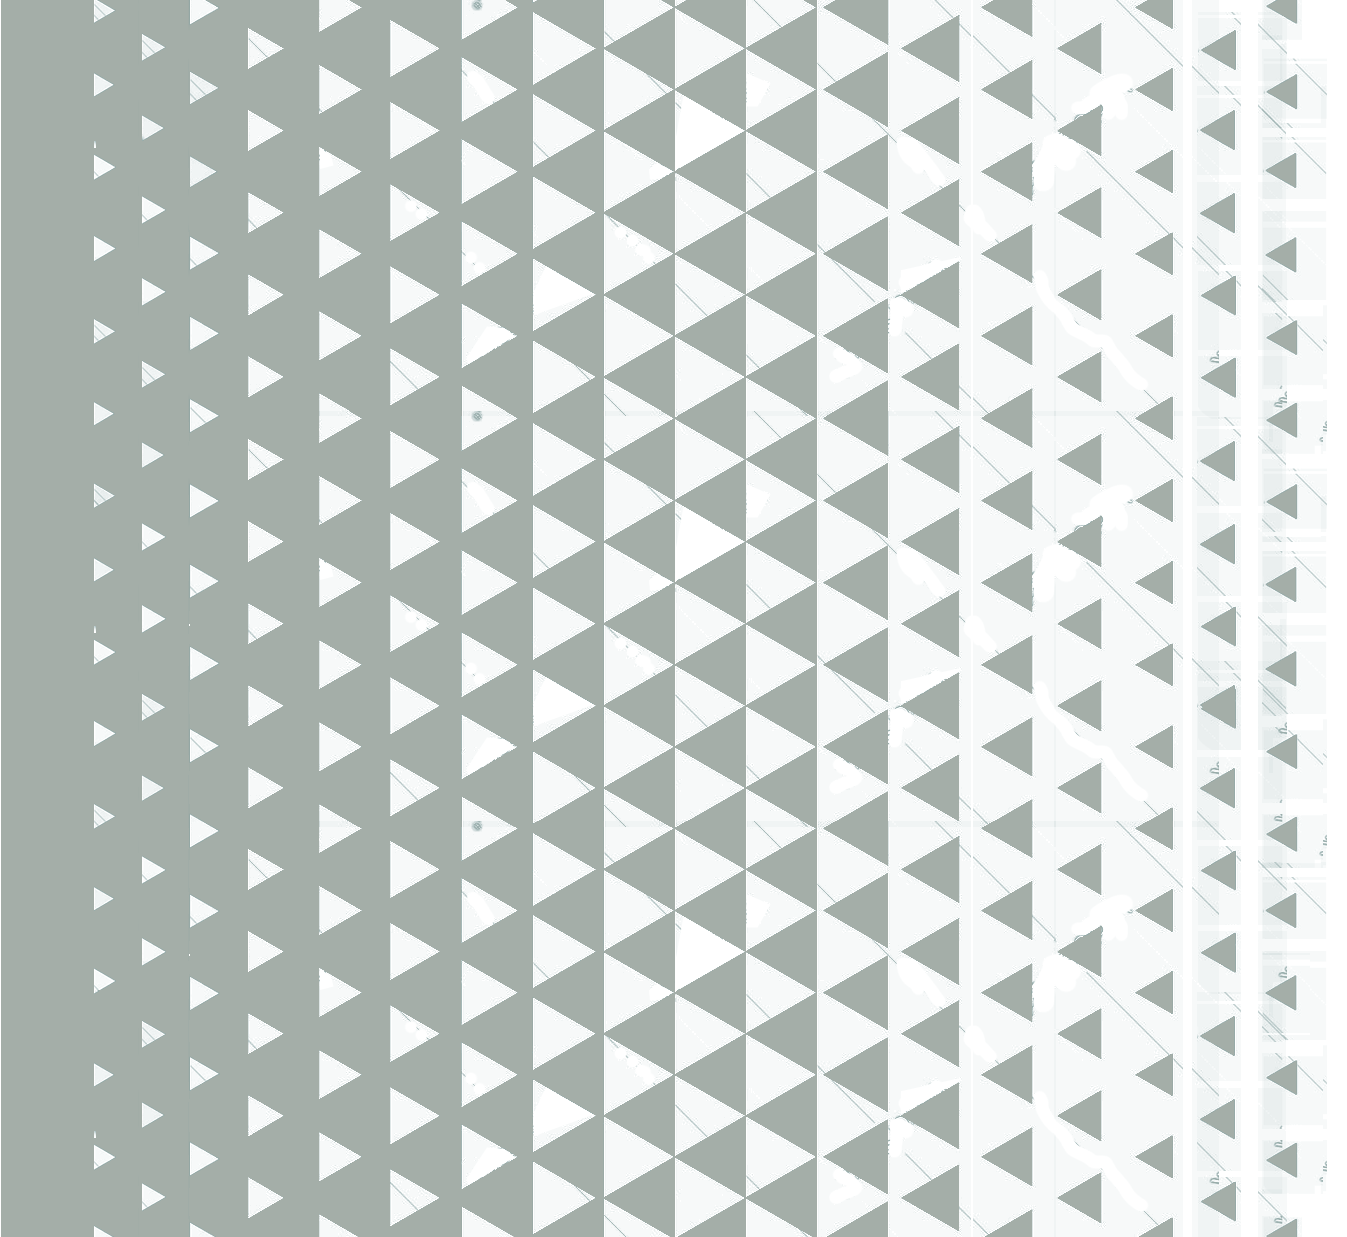
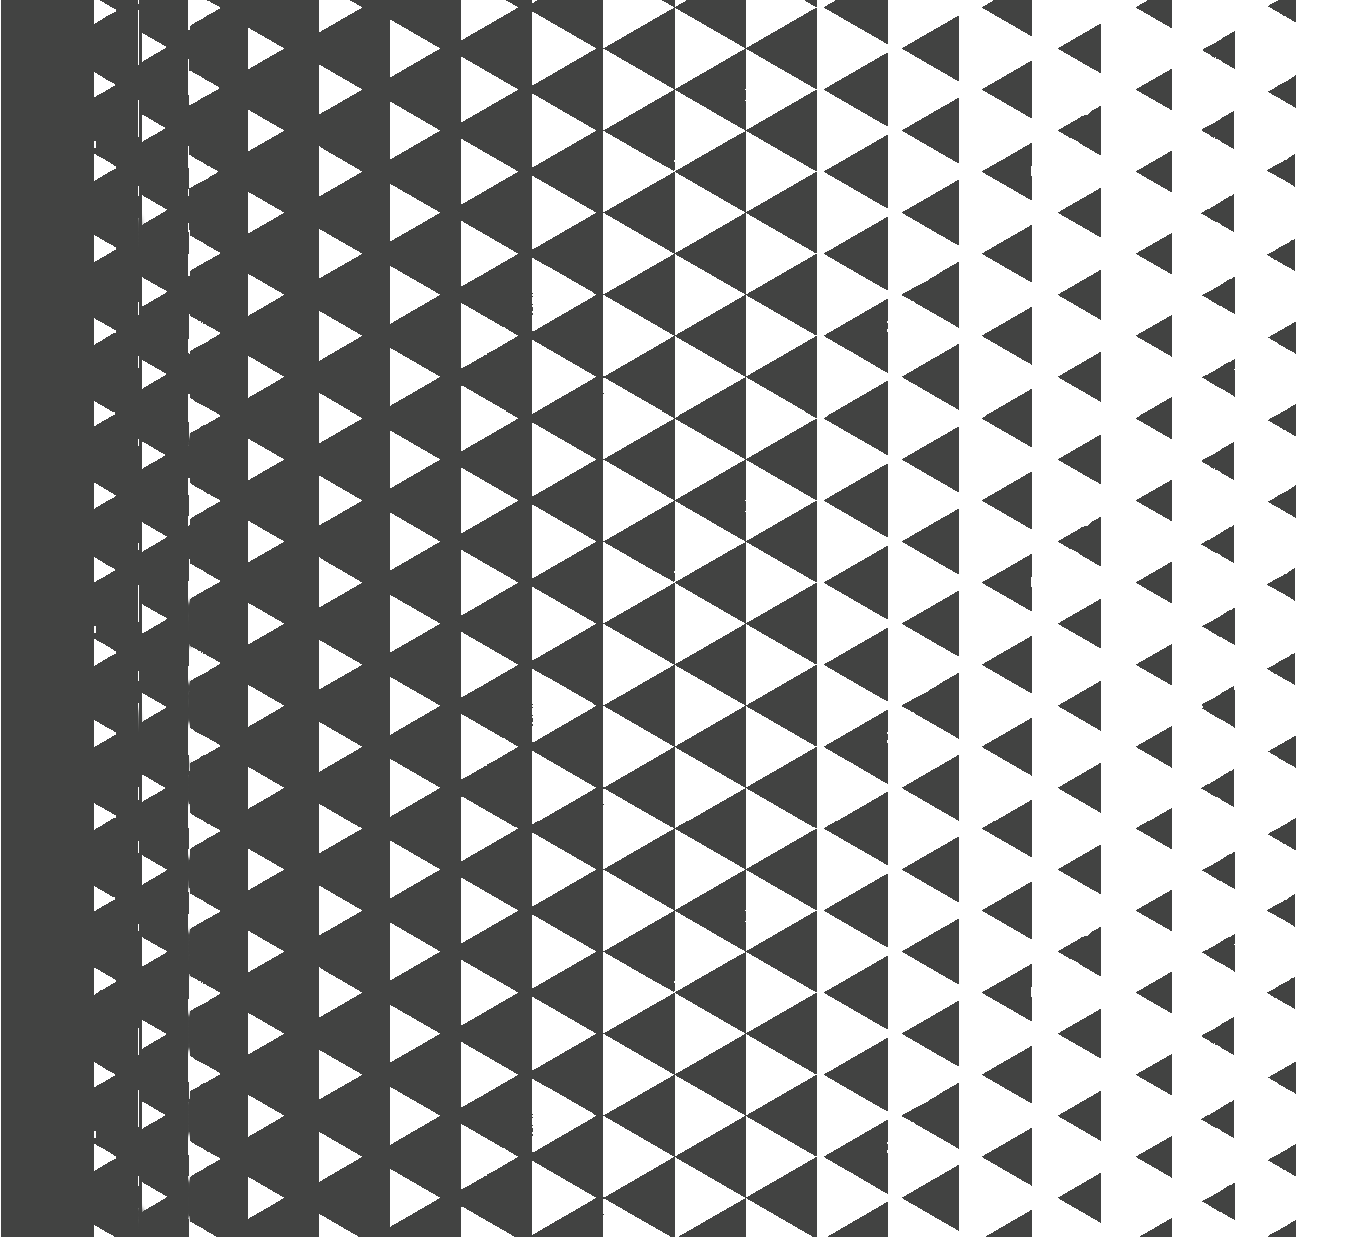
making things prettty

diff --git a/src/App.css b/src/App.css
@@ -6,7 +6,7 @@
 }
 
 body{
-  background-color:  rgb(164, 174, 168);
+  background-color:  rgb(66, 67, 66);
 }
 
 
@@ -24,12 +24,12 @@ img {
 
 
 .jumbotron {
-  background-image: url('./Assets/background.gif');
+  background-image: url('./Assets/background2.gif');
   height: 500px;
   background-repeat: no-repeat;
   background-size: contain;
   background-position: center;
-  background-color: rgb(52, 52, 56);
+  background-color: rgb(26, 26, 28);
   color:white;
 }
 
@@ -43,6 +43,10 @@ img {
   font-size: 48px;   
   font-family: 'Oswald', monospace;
   font-weight: bold;
+}
+
+.jumbotron h3, h4{
+  font-weight: lighter;
 }
 
 .jumbotron p {

diff --git a/src/App.js b/src/App.js
@@ -37,7 +37,7 @@ class App extends Component {
       <div className="App">
         <div className="jumbotron">
           <div className="container">
-            <h1>Hi! Im Kristy Gao.</h1>
+            <h1>Hi! It's Kristy Gao.</h1>
             <h3>1A Computer Science student at the University of Waterloo</h3>
             <h4>Software Developer & Hackathon Founder</h4>
             <LinkBtn txt ="Resume" linker="https://drive.google.com/file/d/1QoIAg8VjW4VIsM4_My77wZJfrjWgWkuF/view?usp=sharing"/> <LinkBtn txt ="Contact" linker="mailto:gaoxuekristy@gmail.com?Subject=Hi!"/>   
